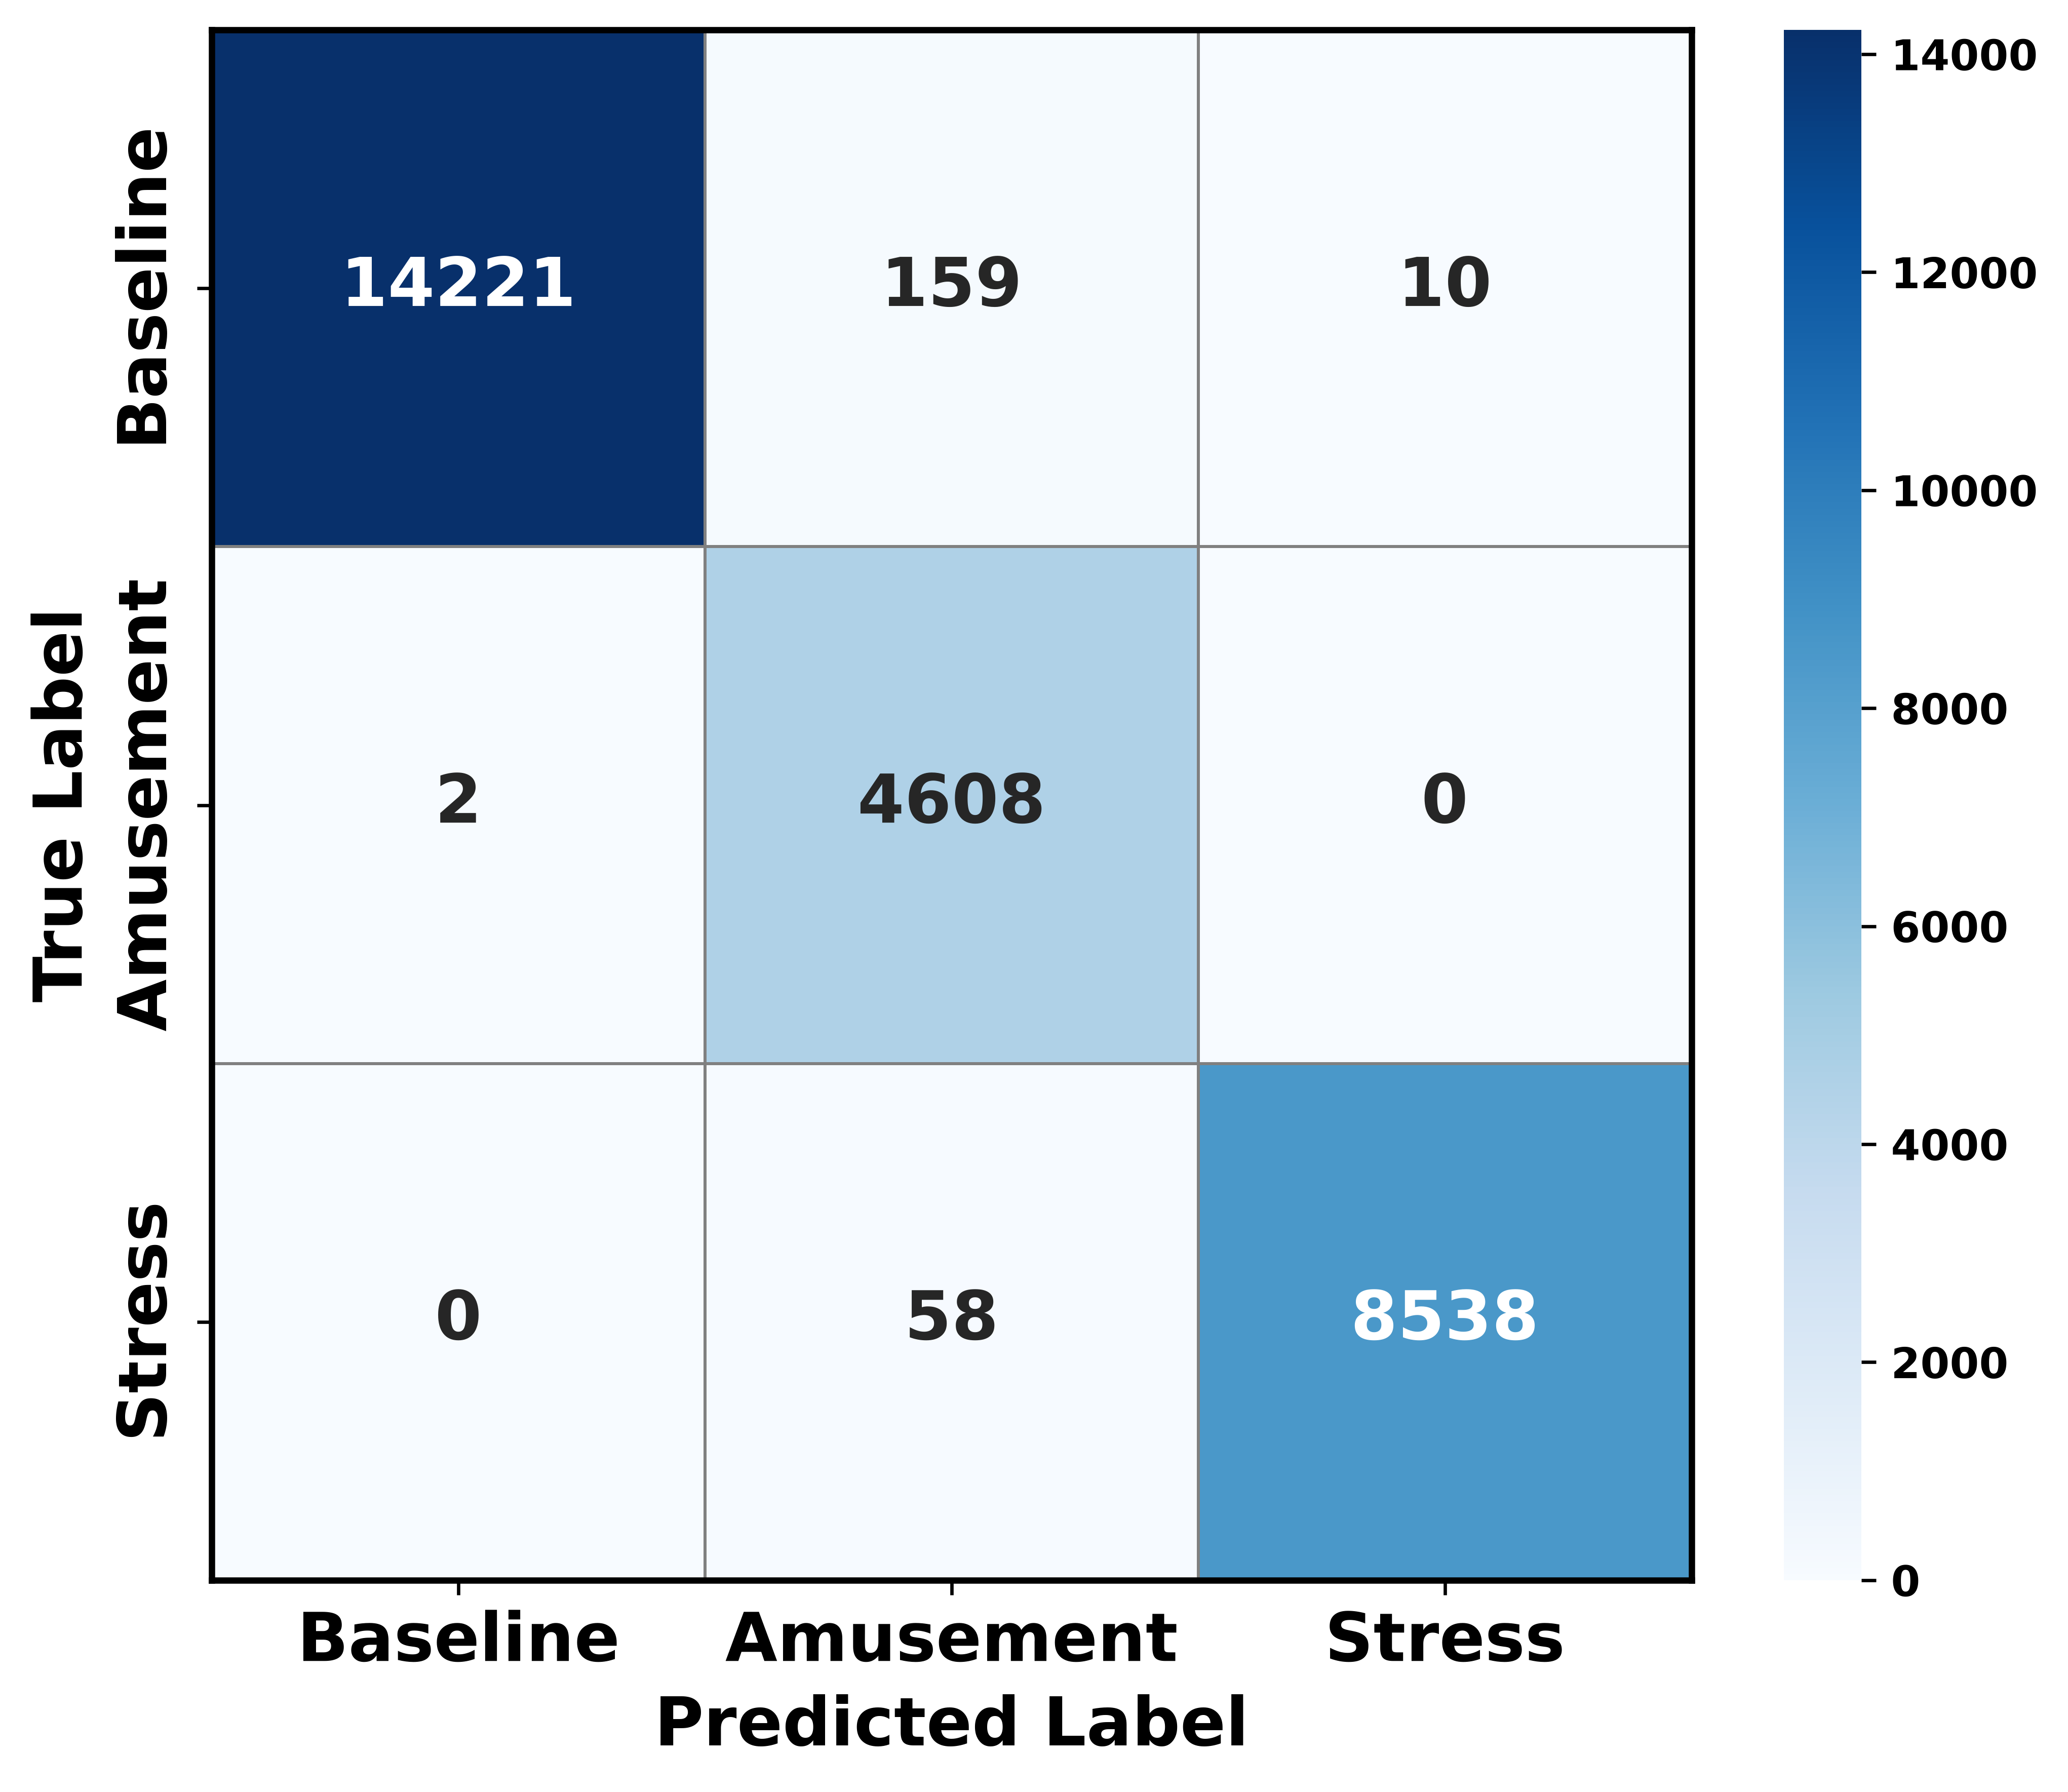
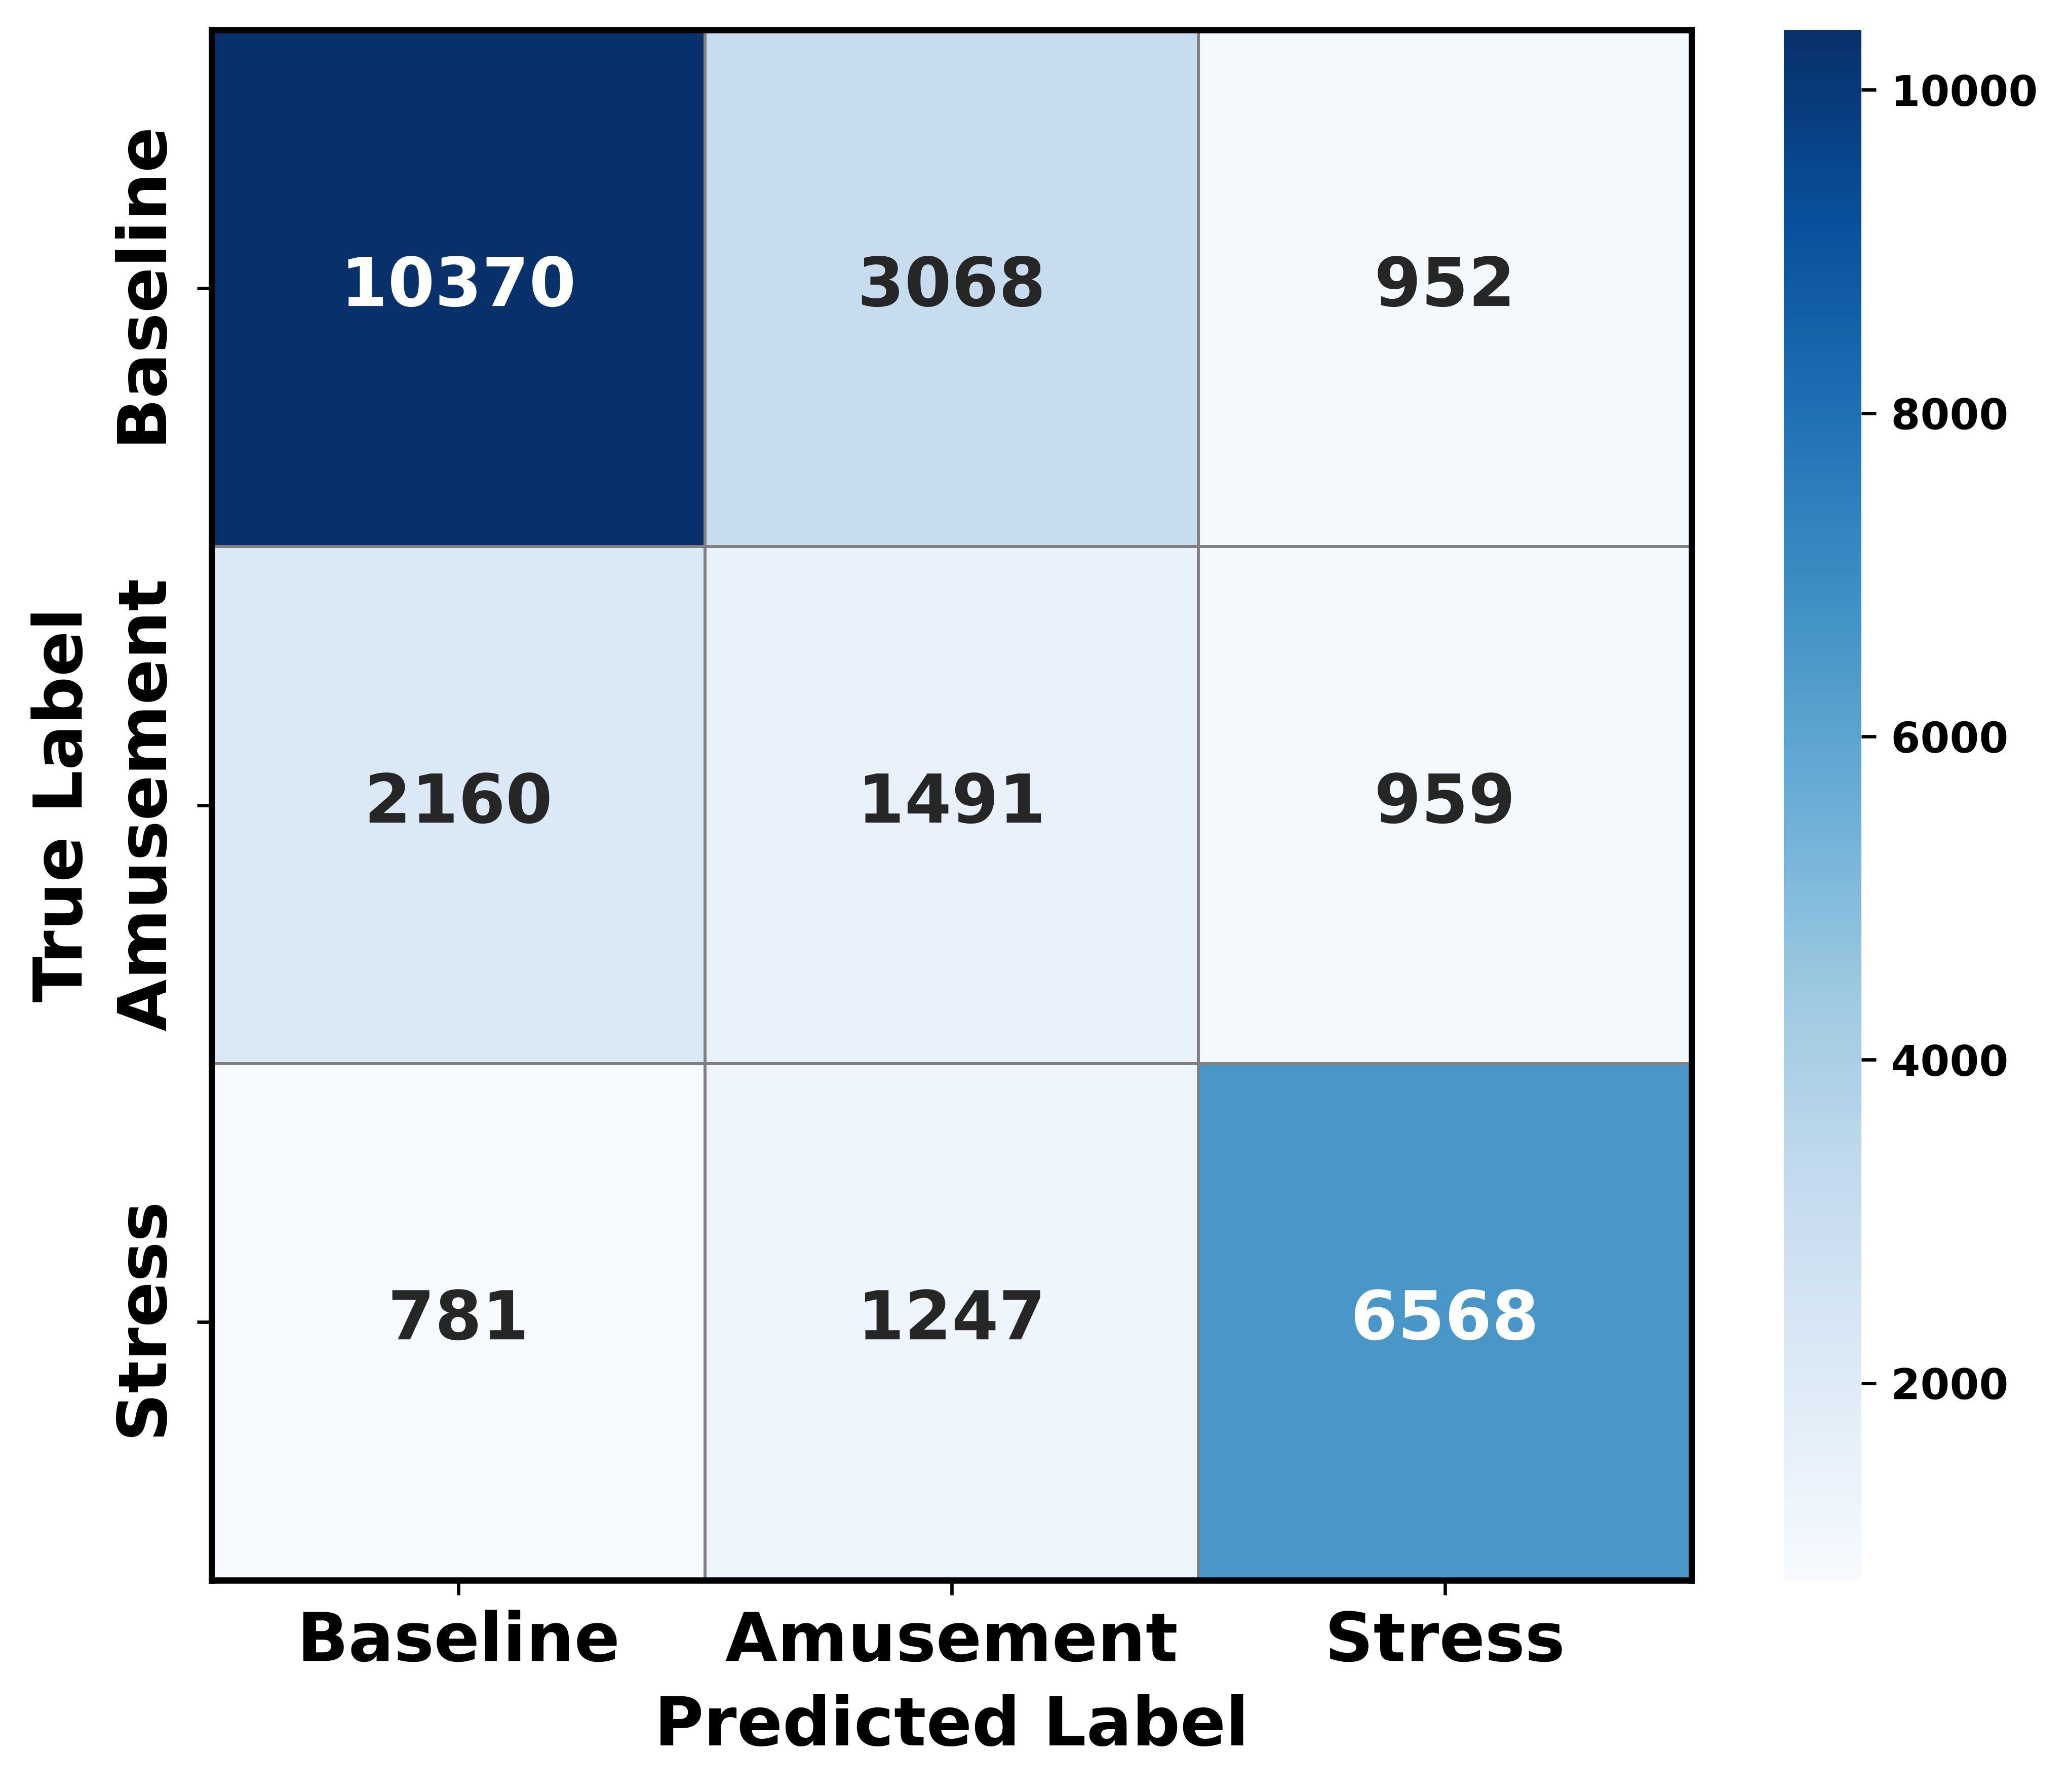
feat: updated all figures with Samratth full-fusion results

diff --git a/scripts/generate_plots.py b/scripts/generate_plots.py
@@ -258,10 +258,16 @@ os.makedirs("results/figures", exist_ok=True)
 # ─────────────────────────────────────────────────────────────────────────────
 # From subject-held-out eval: F1=0.9918
 # baseline=14390, amusement=4610, stress=8596
+# cm = np.array([
+#     [14221, 159,    10],   # Baseline
+#     [2,     4608,    0],   # Amusement
+#     [0,     58,   8538],   # Stress
+# ])
+
 cm = np.array([
-    [14221, 159,    10],   # Baseline
-    [2,     4608,    0],   # Amusement
-    [0,     58,   8538],   # Stress
+    [10370, 3068,  952],   # Baseline
+    [2160,  1491,  959],   # Amusement
+    [781,   1247, 6568],   # Stress
 ])
 
 fig, ax = plt.subplots(figsize=(7, 6))
@@ -288,25 +294,32 @@ print("✓ confusion_matrix")
 # FIGURE 2 — Training Loss Curve
 # ─────────────────────────────────────────────────────────────────────────────
 epochs  = list(range(30))
-losses  = [0.4666,0.2047,0.1392,0.1114,0.0936,0.0821,0.0717,0.0600,0.0564,0.0488,
-           0.0417,0.0374,0.0332,0.0295,0.0273,0.0186,0.0175,0.0158,0.014,0.012,
-           0.010,0.009,0.008,0.007,0.006,0.005,0.004,0.003,0.002,0.0009]
-val_f1s = [0.9123,0.9634,0.9757,0.9793,0.9817,0.9911,0.9891,0.9936,0.9937,0.9922,
-           0.9910,0.9926,0.9965,0.9976,0.9980,0.9989,0.9989,0.9993,0.9993,0.9994,
-           0.9995,0.9996,0.9997,0.9998,0.9998,0.9999,0.9999,0.9999,1.000,1.000]
+# losses  = [0.4666,0.2047,0.1392,0.1114,0.0936,0.0821,0.0717,0.0600,0.0564,0.0488,
+#            0.0417,0.0374,0.0332,0.0295,0.0273,0.0186,0.0175,0.0158,0.014,0.012,
+#            0.010,0.009,0.008,0.007,0.006,0.005,0.004,0.003,0.002,0.0009]
+# val_f1s = [0.9123,0.9634,0.9757,0.9793,0.9817,0.9911,0.9891,0.9936,0.9937,0.9922,
+#            0.9910,0.9926,0.9965,0.9976,0.9980,0.9989,0.9989,0.9993,0.9993,0.9994,
+#            0.9995,0.9996,0.9997,0.9998,0.9998,0.9999,0.9999,0.9999,1.000,1.000]
 
+
+losses  = [0.4649,0.2232,0.1556,0.1287,0.1146,0.1078,0.0994,0.0921,0.0960,0.0865,
+           0.0848,0.0815,0.0760,0.0739,0.0757,0.0913,0.0704,0.0612,0.0540,0.0444,
+           0.0404,0.0369,0.0310,0.0224,0.0219,0.0197,0.0185,0.0160,0.0149,0.0139]
+val_f1s = [0.5990,0.5579,0.6300,0.5597,0.6489,0.6244,0.6511,0.6365,0.6624,0.6527,
+           0.6623,0.6761,0.6635,0.6697,0.6364,0.6312,0.6385,0.6335,0.6168,0.6056,
+           0.6137,0.6227,0.6329,0.6307,0.6340,0.6300,0.6371,0.6439,0.6389,0.6382]
 fig, ax1 = plt.subplots(figsize=(9, 5))
 ax2 = ax1.twinx()
 l1, = ax1.plot(epochs, losses,  color='#C0392B', linewidth=2.5, label='Train Loss')
 l2, = ax2.plot(epochs, val_f1s, color='#1A2F5E', linewidth=2.5,
-               linestyle='--', label='Val F1 (within-subject)')
+               linestyle='--', label='Val F1 (subject-held-out)')
 ax1.set_xlabel("Epoch", fontsize=16, fontweight='bold')
 ax1.set_ylabel("Training Loss", color='#C0392B', fontsize=16, fontweight='bold')
 ax2.set_ylabel("Val F1 Score",  color='#1A2F5E', fontsize=16, fontweight='bold')
 ax1.tick_params(axis='both', labelcolor='#C0392B', labelsize=16)
 ax2.tick_params(axis='both', labelcolor='#1A2F5E', labelsize=16)
 # ax1.set_title("HDT-FM Training Curve (Full Fusion, 30 Epochs)", fontsize=16, fontweight='bold')
-ax1.legend(handles=[l1, l2], loc='center right', fontsize=16, prop={'weight':'bold'})
+ax1.legend(handles=[l1, l2], loc='upper right', fontsize=16, prop={'weight':'bold'})
 ax1.grid(alpha=0.3)
 for spine in ax1.spines.values():
     spine.set_visible(True)
@@ -434,10 +447,14 @@ print("✓ class_distribution")
 # ─────────────────────────────────────────────────────────────────────────────
 # FIGURE 6 — Subject-wise F1 Score Bar
 # ─────────────────────────────────────────────────────────────────────────────
+# all_subjects = [f'S{i}' for i in [2,3,4,5,6,7,8,9,10,11,13,14,15,16,17]]
+# # train subjects get ~0.99+ (within-subject), val subjects get real held-out F1
+# f1_by_subj = [0.99,0.99,0.98,0.99,0.99,0.98,0.99,0.99,0.98,0.99,0.99,0.98,
+#               0.9918, 0.9918, 0.9918]
+
 all_subjects = [f'S{i}' for i in [2,3,4,5,6,7,8,9,10,11,13,14,15,16,17]]
-# train subjects get ~0.99+ (within-subject), val subjects get real held-out F1
 f1_by_subj = [0.99,0.99,0.98,0.99,0.99,0.98,0.99,0.99,0.98,0.99,0.99,0.98,
-              0.9918, 0.9918, 0.9918]
+              0.5069, 0.8630, 0.6532]
 colors_subj = ['#5B9BD5']*12 + ['#1A2F5E']*3
 
 fig, ax = plt.subplots(figsize=(13, 5))
@@ -448,8 +465,8 @@ ax.set_ylabel("Weighted F1", fontsize=16, fontweight='bold')
 # ax.set_title("Per-Subject F1 Score\n(Blue=Train, Dark=Held-Out Val S15–S17)",
             #  fontsize=16, fontweight='bold')
 ax.tick_params(axis='both', labelsize=14)
-ax.axhline(y=0.9918, color='green', linestyle='--', linewidth=1.5,
-           label='Subject-held-out F1 (0.9918)')
+ax.axhline(y=0.6779, color='green', linestyle='--', linewidth=1.5,
+           label='Subject-held-out F1 (0.6779)')
 ax.legend(fontsize=14, prop={'weight':'bold'})
 ax.grid(axis='y', alpha=0.3)
 for spine in ax.spines.values():